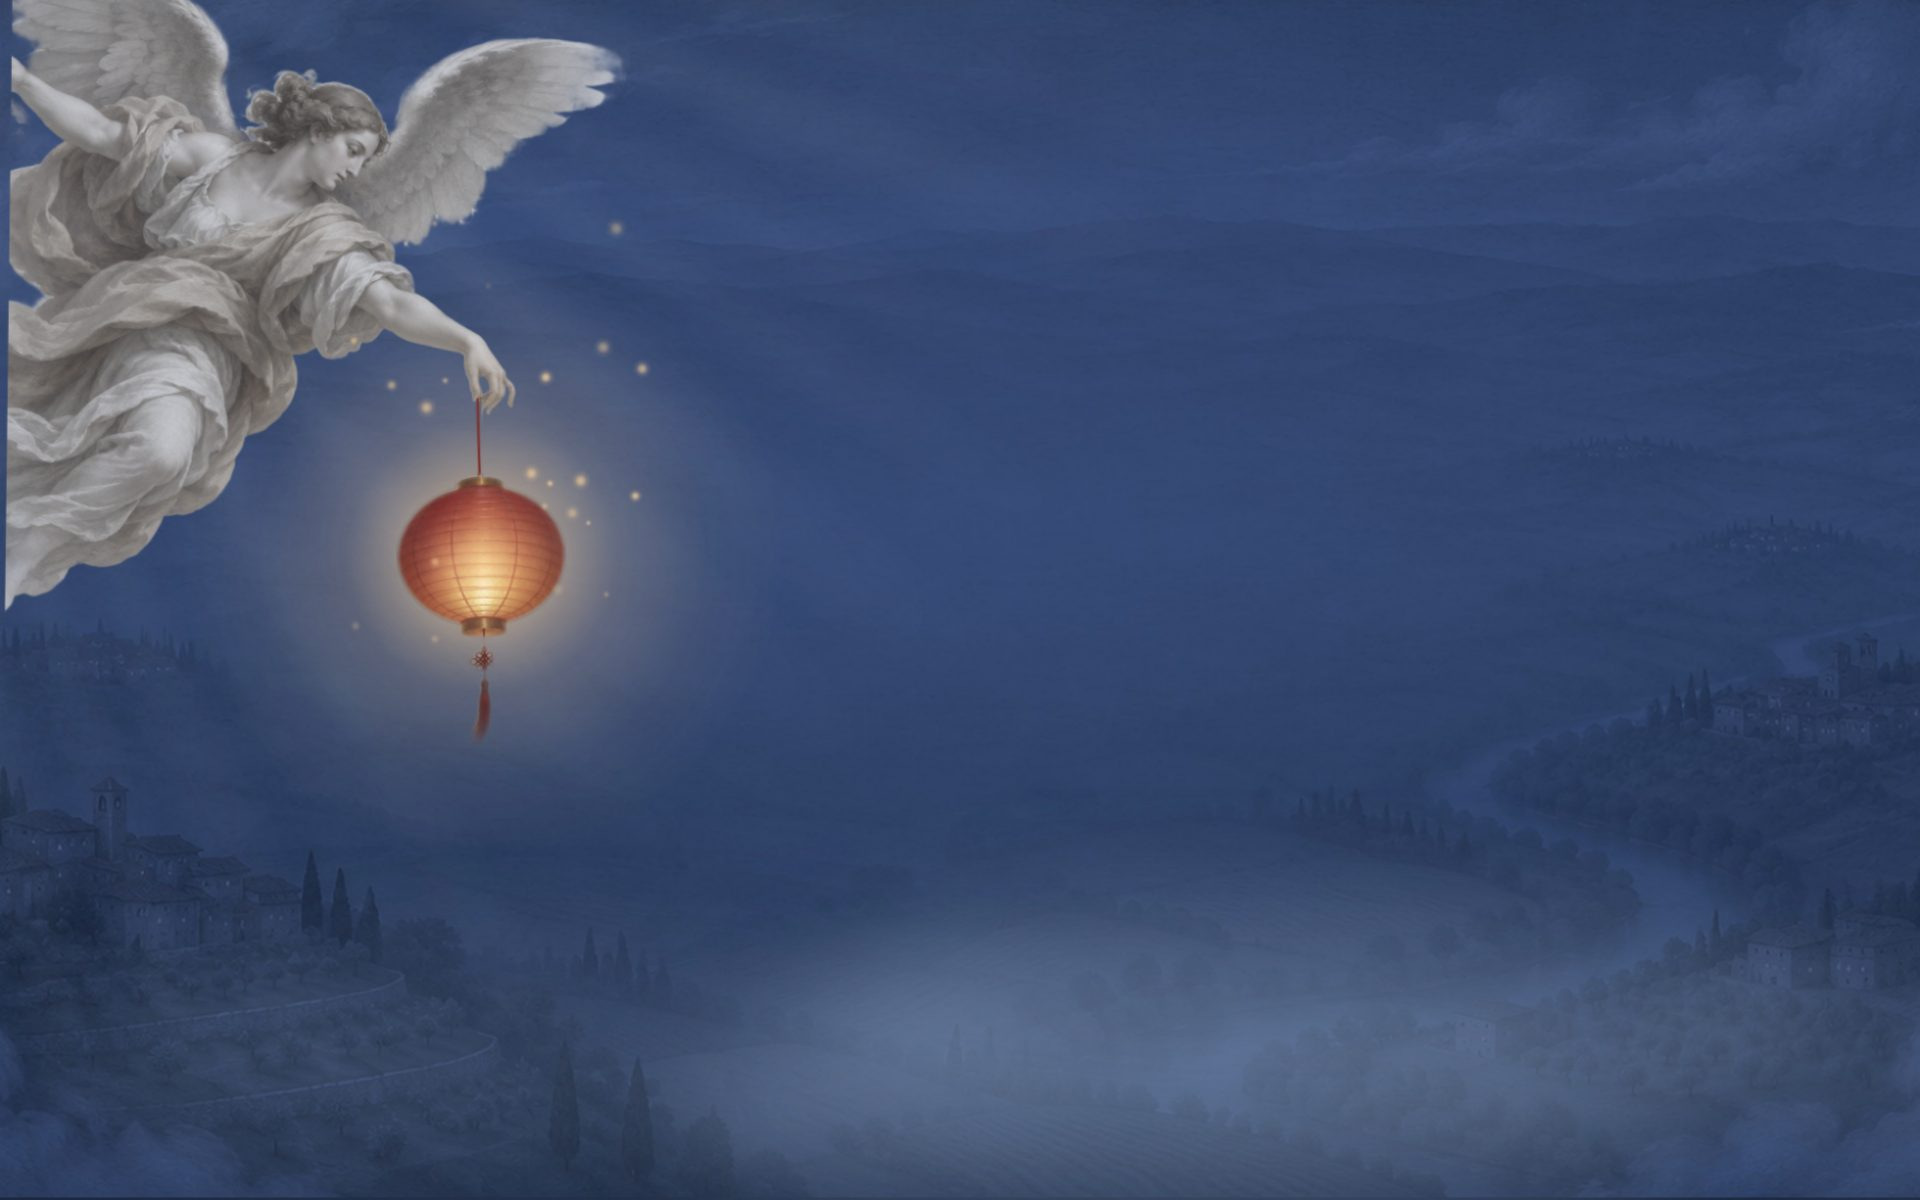
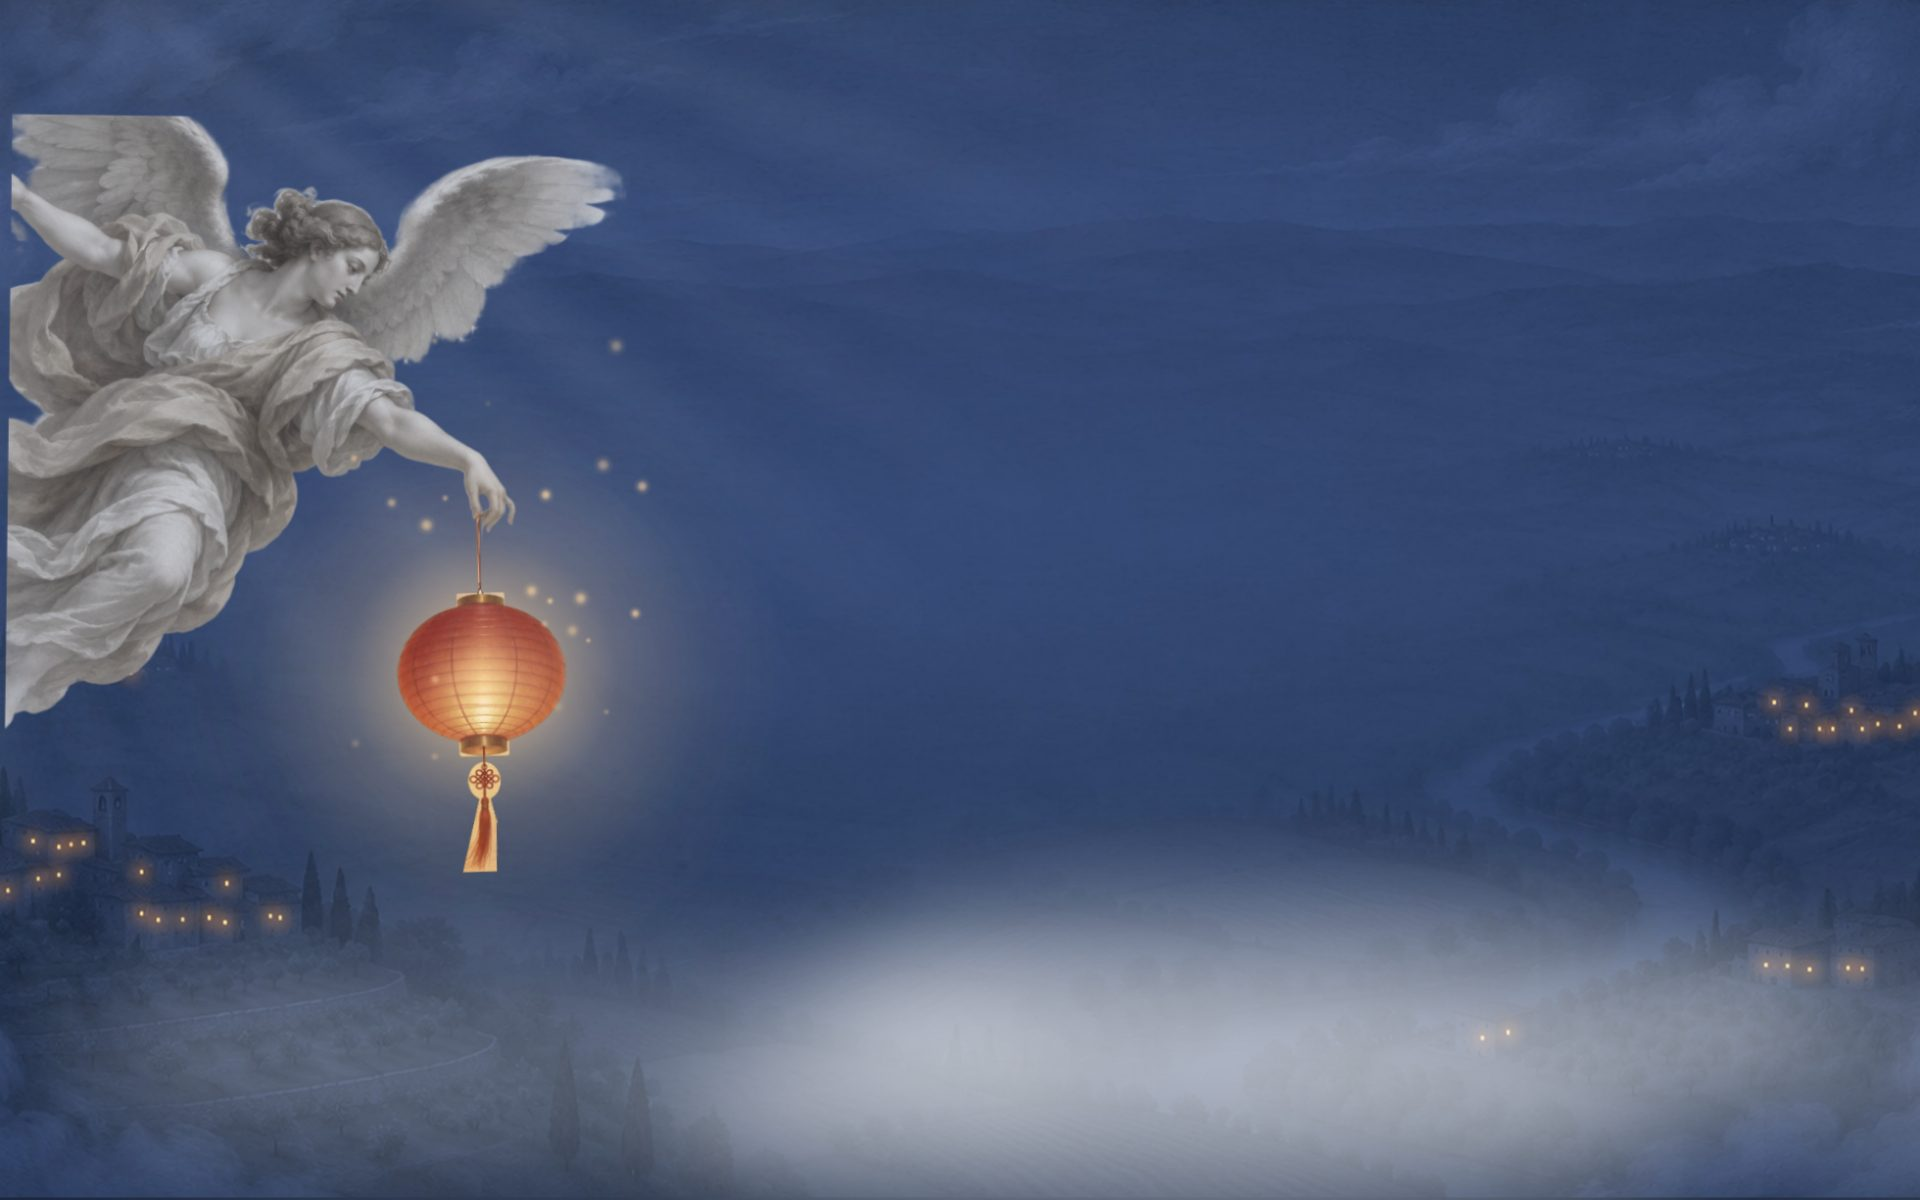
Landing: angel fully in frame; village windows glow orange
- The angel group sits 120 px lower so her head and wings are never cut
  off at the top; the painting's straight left edge stays off-screen.
- 36 lit windows in the hilltop villages now glow warm orange from two
  window layers that flicker out of step and move with the sky (and
  with the mouse parallax). They light up with the lantern.

Claude-Session: https://claude.ai/code/session_01VMC75dovcyg8xHeWok5tKD

diff --git a/assets/hero-motion.js b/assets/hero-motion.js
@@ -1,1 +1,1 @@
-"use strict";(()=>{var b={W:1960,H:1225,pivot:[479.64772727272725,402.4636363636364],lanternCenter:[479.64772727272725,564.1715909090909],lanternR:86.03181818181818,angelBox:[0,0,631,762],lanternBox:[393,402,566,769]};var Pt=60,W=3.5,g=8,R=b.W,_=b.H,at={x:b.pivot[0],y:b.pivot[1]},x={x:b.lanternCenter[0],y:b.lanternCenter[1],r:b.lanternR},[it,ct,Rt,_t]=b.angelBox,[mt,lt,kt,vt]=b.lanternBox,ut=Math.PI*2,yt=24,V=5,y=(t,n,a=0)=>Math.sin(ut*t/n+a),pt=t=>(t%1+1)%1,j=t=>Math.min(1,Math.max(0,t)),Ft=t=>t,Gt=t=>t<.5?2*t*t:1-Math.pow(-2*t+2,2)/2,Ot=t=>t<.5?4*t*t*t:1-Math.pow(-2*t+2,3)/2,Ct=(t,n,a,r)=>{let s=3*t,w=3*(a-t)-s,k=1-s-w,S=3*n,v=3*(r-n)-S,d=1-S-v,E=l=>((k*l+w)*l+s)*l;return l=>{let c=l;for(let A=0;A<8;A++){let F=(3*k*c+2*w)*c+s;if(Math.abs(F)<1e-6)break;c-=(E(c)-l)/F}return c=j(c),((d*c+v)*c+S)*c}},xt=Ct(.16,1,.3,1),H=(t,n,a,r=Ft)=>{if(t<=n[0])return a[0];for(let s=1;s<n.length;s++)if(t<=n[s])return a[s-1]+(a[s]-a[s-1])*r((t-n[s-1])/(n[s]-n[s-1]));return a[a.length-1]},C=t=>{let n=2166136261;for(let a=0;a<t.length;a++)n=Math.imul(n^t.charCodeAt(a),16777619);return n=Math.imul(n^n>>>15,2246822507),n=Math.imul(n^n>>>13,3266489909),((n^n>>>16)>>>0)/4294967296},Ht=t=>{let n=8+C(`s${t}`)*16;return{id:`mote${t}`,src:"mote.png",x:0,y:0,w:n,h:n}},gt=[{id:"sky",src:"sky.jpg",x:0,y:0,w:R,h:_,origin:`${R*.3}px ${_*.4}px`},{id:"angelGroup",x:0,y:0,w:R,h:_,origin:"300px 380px",children:[{id:"angel",src:"angel.png",x:it,y:ct,w:Rt-it,h:_t-ct},{id:"swing",x:0,y:0,w:R,h:_,origin:`${at.x}px ${at.y}px`,children:[{id:"glowOuter",src:"glow.png",x:x.x-x.r*3.6,y:x.y-x.r*3.6,w:x.r*7.2,h:x.r*7.2},{id:"lantern",src:"lantern.png",x:mt,y:lt,w:kt-mt,h:vt-lt},{id:"glowInner",src:"glow.png",x:x.x-x.r*1.1,y:x.y-x.r,w:x.r*2.2,h:x.r*2.2}]}]},{id:"rays",src:"rays.png",x:-220,y:-280,w:1700,h:1700,origin:"0 0"},...Array.from({length:yt},(t,n)=>Ht(n)),...Array.from({length:V},(t,n)=>({id:`mist${n}`,src:"mist.png",x:0,y:0,w:1200,h:420})),{id:"curtainL",src:"mist.png",x:0,y:0,w:2400,h:1400},{id:"curtainR",src:"mist.png",x:0,y:0,w:2400,h:1400}],ht=["sky.jpg","angel.png","glow.png","lantern.png","rays.png","mote.png","mist.png"],Wt={enter:1,ignite:1,extraSwing:0,skyScale:1,rays:1,curtain:0},Xt=t=>{let n=Math.min(1,t/(W-1/Pt));return{enter:H(t,[.15,2.8],[0,1],xt),ignite:H(t,[1.9,2.4,3.4],[0,1.45,1],Gt),extraSwing:15*Math.pow(1-n,2)*Math.sin(n*Math.PI*4),skyScale:H(t,[0,3.5],[1.1,1],xt),rays:H(t,[1.2,3.2],[0,1]),curtain:H(t,[0,1.8],[1,0],Ot)}},dt=(t,n)=>{let a=t<W?Xt(t):Wt,r=t<W?t-W:(t-W)%g,{enter:s,ignite:w,extraSwing:k,skyScale:S,rays:v,curtain:d}=a,E=n===void 0?Math.min(w,1):j(n),l=16*y(r,g),c=8*y(r,g,Math.PI/2),A=.8*y(r,g,Math.PI/3),F=5*y(r,g/2,-.6)+.8*y(r,g/4,.9)+k,T=.78+.14*y(r,2)+.05*y(r,.5,1.3)+.04*y(r,1,.4),Y=n===void 0?w>1?w-1:0:.5*Math.max(0,Math.sin(Math.PI*j((n-.55)/.45))),I=-160*(1-s),N=-560*(1-s),u={sky:{transform:`translate3d(${6*y(r,g)}px,${-3*y(r,g,1)}px,0) scale(${S})`,opacity:1},angelGroup:{transform:`translate3d(${I+c}px,${N+l}px,0) rotate(${A}deg)`,opacity:Math.min(1,s*1.6)},swing:{transform:`rotate(${F}deg)`,opacity:1},glowOuter:{transform:`scale(${1+.07*y(r,2)+Y*.5})`,opacity:Math.min(1,T*E+Y)},glowInner:{transform:"none",opacity:Math.max(0,(T-.2)*E)},rays:{transform:`rotate(${3*y(r,g,2)}deg)`,opacity:(.42+.16*y(r,g/2,.8))*v}};for(let i=0;i<yt;i++){let $=pt(r/g+C(`p${i}`)),h=x.x+c+(C(`x${i}`)-.5)*340+22*Math.sin(ut*($*2+C(`w${i}`))),L=x.y+l+120-$*(380+C(`h${i}`)*260);u[`mote${i}`]={transform:`translate3d(${h}px,${L}px,0)`,opacity:Math.sin(Math.PI*$)*(.45+C(`o${i}`)*.55)*E}}for(let i=0;i<V;i++){let $=pt(r/g+i/V),h=-400+i*440+$*300*(i%2?-1:1);u[`mist${i}`]={transform:`translate3d(${h}px,${_-420+i%3*50}px,0)`,opacity:.75*Math.sin(Math.PI*$)}}return u.curtainL={transform:`translate3d(${-700-(1-d)*900}px,-60px,0)`,opacity:d},u.curtainR={transform:`translate3d(${260+(1-d)*900}px,-60px,0)`,opacity:d},u};var X=document.getElementById("hero-player"),Yt="assets/motion/",ft=t=>Yt+t.replace(/\.png$/,".webp");if(X){let t=document.createElement("div");t.style.cssText=`position:absolute;left:0;top:0;width:${R}px;height:${_}px;transform-origin:0 0;background:#1b2840;overflow:hidden;contain:strict`;let n=new Map,a=new Map,r=(e,o)=>{var p;let m=e.src?Object.assign(document.createElement("img"),{src:ft(e.src),alt:"",decoding:"async",draggable:!1}):document.createElement("div");m.style.cssText=`position:absolute;left:${e.x}px;top:${e.y}px;width:${e.w}px;height:${e.h}px;will-change:transform,opacity;`+(e.origin?`transform-origin:${e.origin};`:""),o.appendChild(m),n.set(e.id,m),(p=e.children)==null||p.forEach(P=>r(P,m))};gt.forEach(e=>r(e,t)),X.appendChild(t);let s=()=>{t.style.transform=`scale(${X.clientWidth/R})`};new ResizeObserver(s).observe(X),s();let w=5,k=2,S=13,v=5,d=24,E=8,l=9,c=4.6,A=8,F=.7,T=6*Math.PI/180,Y=.0018,I={x:0,y:0},N={x:0,y:0},u={x:0,y:0},i=0,$=0,h=0,L=0,B=e=>Math.max(-1,Math.min(1,e)),G=(e,o,m,p)=>e+(o-e)*(1-Math.exp(-m*p)),bt=()=>{var o,m,p,P;let e=window.LANTERN_PARALLAX;return e?typeof e.nx=="number"||typeof e.ny=="number"?{x:B((o=e.nx)!=null?o:0),y:B((m=e.ny)!=null?m:0)}:{x:B(((p=e.x)!=null?p:0)/d),y:B(((P=e.y)!=null?P:0)/E)}:{x:0,y:0}},z=(e,o)=>{let m=window.LANTERN_LIGHT,p=bt();I.x=G(I.x,p.x,l,o),I.y=G(I.y,p.y,l,o),N.x=G(N.x,p.x,l,o),N.y=G(N.y,p.y,l,o),u.x=G(u.x,p.x,c,o),u.y=G(u.y,p.y,c,o);let P=u.x*d,Q=Math.max(o,1/120),tt=(P-i)/Q,$t=(tt-$)/Q;$=tt,i=P;let Mt=Math.sqrt(A),Et=-$t*Y,It=-A*h-2*F*Mt*L+Et;L+=It*o,h+=L*o,h>T&&(h=T,L*=.4),h<-T&&(h=-T,L*=.4);let Nt=h*180/Math.PI,St=`translate3d(${(I.x*w).toFixed(2)}px,${(I.y*k).toFixed(2)}px,0)`,At=`translate3d(${(N.x*S).toFixed(2)}px,${(N.y*v).toFixed(2)}px,0)`,Tt=`translate3d(${(u.x*d).toFixed(2)}px,${(u.y*E).toFixed(2)}px,0)`,nt=dt(e,typeof m=="number"?m:void 0);for(let M in nt){let K=n.get(M);if(!K)continue;let{transform:f,opacity:et}=nt[M];if(M==="sky")f=`${St} ${f}`;else if(M==="angelGroup")f=`${Tt} ${f}`;else if(M==="swing"){let st=/rotate\(([-\d.]+)deg\)/.exec(f);st&&(f=`rotate(${(parseFloat(st[1])+Nt).toFixed(3)}deg)`)}else(M.startsWith("mist")||M.startsWith("mote"))&&(f=`${At} ${f}`);let rt=et<.002?"0":et.toFixed(3),ot=f+"|"+rt;a.get(M)!==ot&&(a.set(M,ot),K.style.transform=f,K.style.opacity=rt)}},U=0,q=0,O=0,Z=!0,J=e=>{let o=Math.min(.1,(e-q)/1e3);q=e,U+=o,z(U,o||1/60),O=requestAnimationFrame(J)},D=()=>{let e=Z&&!document.hidden;e&&!O&&(q=performance.now(),O=requestAnimationFrame(J)),!e&&O&&(cancelAnimationFrame(O),O=0)};z(0,1/60);let wt=ht.map(e=>new Promise(o=>{let m=new Image;m.src=ft(e),m.decode().then(()=>o(),()=>o())}));Promise.all(wt).then(()=>{document.documentElement.classList.add("player-on"),new IntersectionObserver(e=>{Z=e[0].isIntersecting,D()}).observe(X),document.addEventListener("visibilitychange",D),D()})}})();
+"use strict";(()=>{var E={W:1960,H:1225,pivot:[479.64772727272725,402.4636363636364],lanternCenter:[479.64772727272725,564.1715909090909],lanternR:86.03181818181818,angelBox:[0,0,631,762],lanternBox:[393,402,566,769]};var _t=60,Y=3.5,m=8,w=E.W,f=E.H,at={x:E.pivot[0],y:E.pivot[1]},y={x:E.lanternCenter[0],y:E.lanternCenter[1],r:E.lanternR},[it,ct,Rt,kt]=E.angelBox,[mt,pt,vt,Ft]=E.lanternBox,yt=Math.PI*2,lt=120,ut=24,V=5,a=(t,n,i=0)=>Math.sin(yt*t/n+i),xt=t=>(t%1+1)%1,j=t=>Math.min(1,Math.max(0,t)),Gt=t=>t,Ot=t=>t<.5?2*t*t:1-Math.pow(-2*t+2,2)/2,Ct=t=>t<.5?4*t*t*t:1-Math.pow(-2*t+2,3)/2,Bt=(t,n,i,r)=>{let s=3*t,I=3*(i-t)-s,k=1-s-I,A=3*n,v=3*(r-n)-A,b=1-A-v,$=x=>((k*x+I)*x+s)*x;return x=>{let p=x;for(let T=0;T<8;T++){let F=(3*k*p+2*I)*p+s;if(Math.abs(F)<1e-6)break;p-=($(p)-x)/F}return p=j(p),((b*p+v)*p+A)*p}},gt=Bt(.16,1,.3,1),B=(t,n,i,r=Gt)=>{if(t<=n[0])return i[0];for(let s=1;s<n.length;s++)if(t<=n[s])return i[s-1]+(i[s]-i[s-1])*r((t-n[s-1])/(n[s]-n[s-1]));return i[i.length-1]},C=t=>{let n=2166136261;for(let i=0;i<t.length;i++)n=Math.imul(n^t.charCodeAt(i),16777619);return n=Math.imul(n^n>>>15,2246822507),n=Math.imul(n^n>>>13,3266489909),((n^n>>>16)>>>0)/4294967296},Yt=t=>{let n=8+C(`s${t}`)*16;return{id:`mote${t}`,src:"mote.png",x:0,y:0,w:n,h:n}},dt=[{id:"sky",src:"sky.jpg",x:0,y:0,w,h:f,origin:`${w*.3}px ${f*.4}px`},{id:"windowsA",src:"windows-a.png",x:0,y:0,w,h:f,origin:`${w*.3}px ${f*.4}px`},{id:"windowsB",src:"windows-b.png",x:0,y:0,w,h:f,origin:`${w*.3}px ${f*.4}px`},{id:"angelGroup",x:0,y:0,w,h:f,origin:"300px 380px",children:[{id:"angel",src:"angel.png",x:it,y:ct,w:Rt-it,h:kt-ct},{id:"swing",x:0,y:0,w,h:f,origin:`${at.x}px ${at.y}px`,children:[{id:"glowOuter",src:"glow.png",x:y.x-y.r*3.6,y:y.y-y.r*3.6,w:y.r*7.2,h:y.r*7.2},{id:"lantern",src:"lantern.png",x:mt,y:pt,w:vt-mt,h:Ft-pt},{id:"glowInner",src:"glow.png",x:y.x-y.r*1.1,y:y.y-y.r,w:y.r*2.2,h:y.r*2.2}]}]},{id:"rays",src:"rays.png",x:-220,y:-280,w:1700,h:1700,origin:"0 0"},...Array.from({length:ut},(t,n)=>Yt(n)),...Array.from({length:V},(t,n)=>({id:`mist${n}`,src:"mist.png",x:0,y:0,w:1200,h:420})),{id:"curtainL",src:"mist.png",x:0,y:0,w:2400,h:1400},{id:"curtainR",src:"mist.png",x:0,y:0,w:2400,h:1400}],ht=["sky.jpg","windows-a.png","windows-b.png","angel.png","glow.png","lantern.png","rays.png","mote.png","mist.png"],Ht={enter:1,ignite:1,extraSwing:0,skyScale:1,rays:1,curtain:0},Wt=t=>{let n=Math.min(1,t/(Y-1/_t));return{enter:B(t,[.15,2.8],[0,1],gt),ignite:B(t,[1.9,2.4,3.4],[0,1.45,1],Ot),extraSwing:15*Math.pow(1-n,2)*Math.sin(n*Math.PI*4),skyScale:B(t,[0,3.5],[1.1,1],gt),rays:B(t,[1.2,3.2],[0,1]),curtain:B(t,[0,1.8],[1,0],Ct)}},wt=(t,n)=>{let i=t<Y?Wt(t):Ht,r=t<Y?t-Y:(t-Y)%m,{enter:s,ignite:I,extraSwing:k,skyScale:A,rays:v,curtain:b}=i,$=n===void 0?Math.min(I,1):j(n),x=16*a(r,m),p=8*a(r,m,Math.PI/2),T=.8*a(r,m,Math.PI/3),F=5*a(r,m/2,-.6)+.8*a(r,m/4,.9)+k,P=.78+.14*a(r,2)+.05*a(r,.5,1.3)+.04*a(r,1,.4),W=n===void 0?I>1?I-1:0:.5*Math.max(0,Math.sin(Math.PI*j((n-.55)/.45))),S=-160*(1-s),L=-560*(1-s),u={sky:{transform:`translate3d(${6*a(r,m)}px,${-3*a(r,m,1)}px,0) scale(${A})`,opacity:1},windowsA:{transform:`translate3d(${6*a(r,m)}px,${-3*a(r,m,1)}px,0) scale(${A})`,opacity:$*(.82+.12*a(r,2.2)+.06*a(r,.7,1.1))},windowsB:{transform:`translate3d(${6*a(r,m)}px,${-3*a(r,m,1)}px,0) scale(${A})`,opacity:$*(.82+.12*a(r,2.9,2)+.06*a(r,.9,.3))},angelGroup:{transform:`translate3d(${S+p}px,${L+x+lt}px,0) rotate(${T}deg)`,opacity:Math.min(1,s*1.6)},swing:{transform:`rotate(${F}deg)`,opacity:1},glowOuter:{transform:`scale(${1+.07*a(r,2)+W*.5})`,opacity:Math.min(1,P*$+W)},glowInner:{transform:"none",opacity:Math.max(0,(P-.2)*$)},rays:{transform:`rotate(${3*a(r,m,2)}deg)`,opacity:(.42+.16*a(r,m/2,.8))*v}};for(let c=0;c<ut;c++){let N=xt(r/m+C(`p${c}`)),d=y.x+p+(C(`x${c}`)-.5)*340+22*Math.sin(yt*(N*2+C(`w${c}`))),_=y.y+x+lt+120-N*(380+C(`h${c}`)*260);u[`mote${c}`]={transform:`translate3d(${d}px,${_}px,0)`,opacity:Math.sin(Math.PI*N)*(.45+C(`o${c}`)*.55)*$}}for(let c=0;c<V;c++){let N=xt(r/m+c/V),d=-400+c*440+N*300*(c%2?-1:1);u[`mist${c}`]={transform:`translate3d(${d}px,${f-420+c%3*50}px,0)`,opacity:.75*Math.sin(Math.PI*N)}}return u.curtainL={transform:`translate3d(${-700-(1-b)*900}px,-60px,0)`,opacity:b},u.curtainR={transform:`translate3d(${260+(1-b)*900}px,-60px,0)`,opacity:b},u};var H=document.getElementById("hero-player"),Xt="assets/motion/",ft=t=>Xt+t.replace(/\.png$/,".webp");if(H){let t=document.createElement("div");t.style.cssText=`position:absolute;left:0;top:0;width:${w}px;height:${f}px;transform-origin:0 0;background:#1b2840;overflow:hidden;contain:strict`;let n=new Map,i=new Map,r=(e,o)=>{var g;let l=e.src?Object.assign(document.createElement("img"),{src:ft(e.src),alt:"",decoding:"async",draggable:!1}):document.createElement("div");l.style.cssText=`position:absolute;left:${e.x}px;top:${e.y}px;width:${e.w}px;height:${e.h}px;will-change:transform,opacity;`+(e.origin?`transform-origin:${e.origin};`:""),o.appendChild(l),n.set(e.id,l),(g=e.children)==null||g.forEach(R=>r(R,l))};dt.forEach(e=>r(e,t)),H.appendChild(t);let s=()=>{t.style.transform=`scale(${H.clientWidth/w})`};new ResizeObserver(s).observe(H),s();let I=5,k=2,A=13,v=5,b=24,$=8,x=9,p=4.6,T=8,F=.7,P=6*Math.PI/180,W=.0018,S={x:0,y:0},L={x:0,y:0},u={x:0,y:0},c=0,N=0,d=0,_=0,X=e=>Math.max(-1,Math.min(1,e)),G=(e,o,l,g)=>e+(o-e)*(1-Math.exp(-l*g)),bt=()=>{var o,l,g,R;let e=window.LANTERN_PARALLAX;return e?typeof e.nx=="number"||typeof e.ny=="number"?{x:X((o=e.nx)!=null?o:0),y:X((l=e.ny)!=null?l:0)}:{x:X(((g=e.x)!=null?g:0)/b),y:X(((R=e.y)!=null?R:0)/$)}:{x:0,y:0}},z=(e,o)=>{let l=window.LANTERN_LIGHT,g=bt();S.x=G(S.x,g.x,x,o),S.y=G(S.y,g.y,x,o),L.x=G(L.x,g.x,x,o),L.y=G(L.y,g.y,x,o),u.x=G(u.x,g.x,p,o),u.y=G(u.y,g.y,p,o);let R=u.x*b,Q=Math.max(o,1/120),tt=(R-c)/Q,Mt=(tt-N)/Q;N=tt,c=R;let Et=Math.sqrt(T),It=-Mt*W,At=-T*d-2*F*Et*_+It;_+=At*o,d+=_*o,d>P&&(d=P,_*=.4),d<-P&&(d=-P,_*=.4);let Nt=d*180/Math.PI,St=`translate3d(${(S.x*I).toFixed(2)}px,${(S.y*k).toFixed(2)}px,0)`,Lt=`translate3d(${(L.x*A).toFixed(2)}px,${(L.y*v).toFixed(2)}px,0)`,Tt=`translate3d(${(u.x*b).toFixed(2)}px,${(u.y*$).toFixed(2)}px,0)`,nt=wt(e,typeof l=="number"?l:void 0);for(let h in nt){let K=n.get(h);if(!K)continue;let{transform:M,opacity:et}=nt[h];if(h==="sky"||h==="windowsA"||h==="windowsB")M=`${St} ${M}`;else if(h==="angelGroup")M=`${Tt} ${M}`;else if(h==="swing"){let st=/rotate\(([-\d.]+)deg\)/.exec(M);st&&(M=`rotate(${(parseFloat(st[1])+Nt).toFixed(3)}deg)`)}else(h.startsWith("mist")||h.startsWith("mote"))&&(M=`${Lt} ${M}`);let rt=et<.002?"0":et.toFixed(3),ot=M+"|"+rt;i.get(h)!==ot&&(i.set(h,ot),K.style.transform=M,K.style.opacity=rt)}},U=0,D=0,O=0,Z=!0,J=e=>{let o=Math.min(.1,(e-D)/1e3);D=e,U+=o,z(U,o||1/60),O=requestAnimationFrame(J)},q=()=>{let e=Z&&!document.hidden;e&&!O&&(D=performance.now(),O=requestAnimationFrame(J)),!e&&O&&(cancelAnimationFrame(O),O=0)};z(0,1/60);let $t=ht.map(e=>new Promise(o=>{let l=new Image;l.src=ft(e),l.decode().then(()=>o(),()=>o())}));Promise.all($t).then(()=>{document.documentElement.classList.add("player-on"),new IntersectionObserver(e=>{Z=e[0].isIntersecting,q()}).observe(H),document.addEventListener("visibilitychange",q),q()})}})();

diff --git a/motion/src/motion.ts b/motion/src/motion.ts
@@ -15,6 +15,8 @@ const LANTERN = { x: geo.lanternCenter[0], y: geo.lanternCenter[1], r: geo.lante
 const [ax0, ay0, ax1, ay1] = geo.angelBox;
 const [lx0, ly0, lx1, ly1] = geo.lanternBox;
 const TAU = Math.PI * 2;
+// the angel sits this far below her painted position so her head and wings are never cut off
+const ANGEL_DY = 120;
 const MOTES = 24;
 const MISTS = 5;
 
@@ -75,6 +77,9 @@ const mote = (i: number): Node => {
 
 export const SCENE: Node[] = [
   { id: "sky", src: "sky.jpg", x: 0, y: 0, w: CW, h: CH, origin: `${CW * 0.3}px ${CH * 0.4}px` },
+  // lit village windows, two layers that flicker out of step; they move with the sky
+  { id: "windowsA", src: "windows-a.png", x: 0, y: 0, w: CW, h: CH, origin: `${CW * 0.3}px ${CH * 0.4}px` },
+  { id: "windowsB", src: "windows-b.png", x: 0, y: 0, w: CW, h: CH, origin: `${CW * 0.3}px ${CH * 0.4}px` },
   {
     id: "angelGroup", x: 0, y: 0, w: CW, h: CH, origin: "300px 380px",
     children: [
@@ -96,7 +101,7 @@ export const SCENE: Node[] = [
   { id: "curtainR", src: "mist.png", x: 0, y: 0, w: 2400, h: 1400 },
 ];
 
-export const IMAGES = ["sky.jpg", "angel.png", "glow.png", "lantern.png", "rays.png", "mote.png", "mist.png"];
+export const IMAGES = ["sky.jpg", "windows-a.png", "windows-b.png", "angel.png", "glow.png", "lantern.png", "rays.png", "mote.png", "mist.png"];
 
 // ---- the motion ----
 export type Pose = { transform: string; opacity: number };
@@ -139,7 +144,9 @@ export const sample = (elapsed: number, light?: number): Frame => {
 
   const f: Frame = {
     sky: { transform: `translate3d(${6 * wave(t, LOOP_S)}px,${-3 * wave(t, LOOP_S, 1)}px,0) scale(${skyScale})`, opacity: 1 },
-    angelGroup: { transform: `translate3d(${enterX + driftX}px,${enterY + floatY}px,0) rotate(${floatRot}deg)`, opacity: Math.min(1, enter * 1.6) },
+    windowsA: { transform: `translate3d(${6 * wave(t, LOOP_S)}px,${-3 * wave(t, LOOP_S, 1)}px,0) scale(${skyScale})`, opacity: lit * (0.82 + 0.12 * wave(t, 2.2) + 0.06 * wave(t, 0.7, 1.1)) },
+    windowsB: { transform: `translate3d(${6 * wave(t, LOOP_S)}px,${-3 * wave(t, LOOP_S, 1)}px,0) scale(${skyScale})`, opacity: lit * (0.82 + 0.12 * wave(t, 2.9, 2) + 0.06 * wave(t, 0.9, 0.3)) },
+    angelGroup: { transform: `translate3d(${enterX + driftX}px,${enterY + floatY + ANGEL_DY}px,0) rotate(${floatRot}deg)`, opacity: Math.min(1, enter * 1.6) },
     swing: { transform: `rotate(${swing}deg)`, opacity: 1 },
     glowOuter: { transform: `scale(${1 + 0.07 * wave(t, 2) + flare * 0.5})`, opacity: Math.min(1, glow * lit + flare) },
     glowInner: { transform: "none", opacity: Math.max(0, (glow - 0.2) * lit) },
@@ -148,7 +155,7 @@ export const sample = (elapsed: number, light?: number): Frame => {
   for (let i = 0; i < MOTES; i++) {
     const p = frac(t / LOOP_S + random(`p${i}`));
     const x = LANTERN.x + driftX + (random(`x${i}`) - 0.5) * 340 + 22 * Math.sin(TAU * (p * 2 + random(`w${i}`)));
-    const y = LANTERN.y + floatY + 120 - p * (380 + random(`h${i}`) * 260);
+    const y = LANTERN.y + floatY + ANGEL_DY + 120 - p * (380 + random(`h${i}`) * 260);
     f[`mote${i}`] = { transform: `translate3d(${x}px,${y}px,0)`, opacity: Math.sin(Math.PI * p) * (0.45 + random(`o${i}`) * 0.55) * lit };
   }
   for (let i = 0; i < MISTS; i++) {

diff --git a/motion/src/web.ts b/motion/src/web.ts
@@ -102,7 +102,7 @@ if (mount) {
       if (!el) continue;
       let { transform, opacity } = frame[id];
 
-      if (id === "sky") {
+      if (id === "sky" || id === "windowsA" || id === "windowsB") {
         transform = `${skyT} ${transform}`;
       } else if (id === "angelGroup") {
         transform = `${angelT} ${transform}`;

diff --git a/motion/make_night.py b/motion/make_night.py
@@ -68,3 +68,26 @@ string = big.resize(lan.size, Image.LANCZOS)
 lan = Image.alpha_composite(string, lan)
 lan.save(f"{D}/lantern.png")
 print("lantern blended, string redrawn")
+
+# lit village windows: two glow layers (alternate windows) the animation flickers separately
+wins = json.load(open(f"{D}/windows.json"))            # painting px (landscape-source.png)
+Wsrc, Hsrc = src.size; cw = round(Hsrc * 1.6); x0 = (Wsrc - cw) // 2; k = 1960 / cw
+from PIL import ImageDraw
+for name, sel in (("windows-a", 0), ("windows-b", 1)):
+    SS = 2; lay = Image.new("RGBA", (1960 * SS, 1225 * SS), (0, 0, 0, 0))
+    halo = Image.new("L", lay.size, 0); core = Image.new("L", lay.size, 0)
+    dh, dc = ImageDraw.Draw(halo), ImageDraw.Draw(core)
+    for i, (sx, sy) in enumerate(wins):
+        if i % 2 != sel: continue
+        x, y = (sx - x0) * k * SS, sy * k * SS
+        dh.ellipse((x - 9 * SS, y - 9 * SS, x + 9 * SS, y + 9 * SS), fill=150)
+        dc.rectangle((x - 1.3 * SS, y - 1.8 * SS, x + 1.3 * SS, y + 1.8 * SS), fill=255)
+    halo = halo.filter(ImageFilter.GaussianBlur(7 * SS)); core = core.filter(ImageFilter.GaussianBlur(0.6 * SS))
+    h = np.array(halo).astype(np.float32) / 255; c = np.array(core).astype(np.float32) / 255
+    rgba = np.zeros((lay.size[1], lay.size[0], 4), np.float32)
+    col_h = np.array([255, 150, 60]); col_c = np.array([255, 214, 150])
+    a = np.clip(h * 0.75 + c, 0, 1)
+    rgba[..., :3] = (col_h * (h * 0.75)[..., None] + col_c * c[..., None]) / np.maximum(a, 1e-4)[..., None]
+    rgba[..., 3] = a * 255
+    Image.fromarray(np.clip(rgba, 0, 255).astype(np.uint8)).resize((1960, 1225), Image.LANCZOS).save(f"{D}/{name}.png")
+print("windows written", len(wins))
